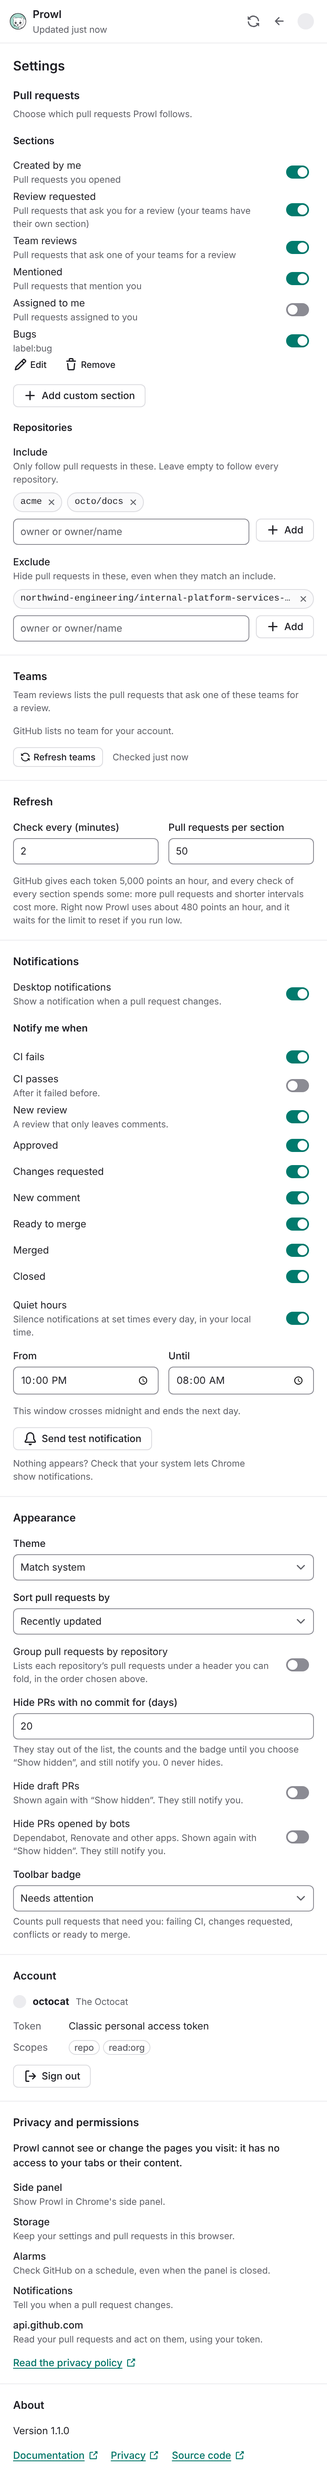
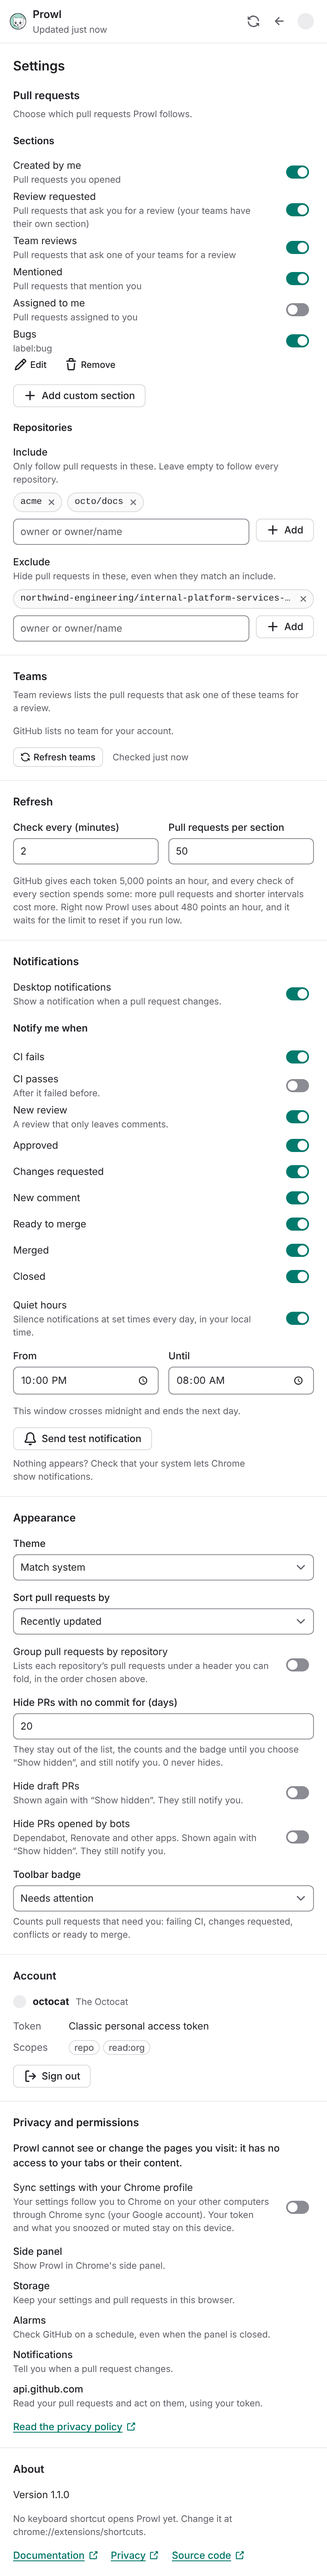
docs: US-042 README, site and store listing for the new features
README and the site's feature cards now cover the bottom bar, team
reviews, hidden stale/draft/bot PRs, grouping, auto-merge and update
branch, the Alt+Shift+P shortcut, notification buttons and opt-in settings
sync. docs/chrome-web-store.md gains the listing's summary and description.
settings.png is regenerated; the list, grouped and teams screenshots come
from the stories that changed them.

Claude-Session: https://claude.ai/code/session_01HNcLDA9beJqnS4TXQJfWCW

diff --git a/README.md b/README.md
@@ -45,7 +45,8 @@ CI status may be missing with them. Details: [sign-in guide](docs/auth.md).
 
 - **Scope**: PRs you authored by default; add review requested (from you), team reviews
   (requests to your teams, found with `read:org`), mentioned, assigned, custom GitHub
-  searches, and repository include/exclude filters. Each scope is a tab. PRs with no
+  searches, and repository include/exclude filters. Each scope sits in a bar at the bottom of
+  the panel, with its count. PRs with no
   commit for 20 days (you choose) step aside behind a "Show hidden" button and still notify;
   so can drafts and PRs opened by bots (Dependabot, Renovate), one switch each in Settings.
   A further switch groups each tab's PRs under their repository, in collapsible groups.
@@ -53,11 +54,16 @@ CI status may be missing with them. Details: [sign-in guide](docs/auth.md).
   unresolved threads, comments, last activity and age. Expand a card for failing checks,
   reviewers and what blocks the merge.
 - **Notifications**: CI failed, CI passed after a failure, new review, approved, changes
-  requested, new comment, ready to merge, merged or closed by someone else. Per-event toggles,
-  quiet hours, and a toolbar badge counting PRs that need you.
+  requested, new comment, ready to merge, merged or closed by someone else, with Open and
+  Snooze 1 h buttons. Per-event toggles, quiet hours, and a toolbar badge counting PRs that
+  need you.
 - **Actions**: approve, request changes and merge (with confirmation; only the merge methods the
-  repository allows), comment, re-run failed checks, ready for review / convert to draft,
-  snooze, mute, open in GitHub, copy branch name.
+  repository allows), turn auto-merge on or off, update a branch that is behind (merge or
+  rebase), comment, re-run failed checks, ready for review / convert to draft, snooze, mute,
+  open in GitHub, copy branch name.
+- **Everywhere you work**: Alt+Shift+P opens the panel (change it at
+  chrome://extensions/shortcuts). Turn on settings sync to find your settings in Chrome on your
+  other computers; the token and your local PR state never leave the device.
 - **Polite polling**: every 2 minutes by default (1 minute minimum), rate-limit aware, with
   backoff on errors. Light and dark themes, full keyboard support.
 

diff --git a/docs/chrome-web-store.md b/docs/chrome-web-store.md
@@ -18,6 +18,27 @@ The job is skipped until the repository variable `CWS_ITEM_ID` exists, so releas
 before the store is set up. It uses API v2: v1 stops on 15 October 2026. The API only uploads and
 submits packages; the listing text, images and privacy answers are edited in the dashboard.
 
+## Listing text
+
+**Summary** (132 characters at most): Follow your GitHub pull requests in the side panel: CI,
+reviews, merge state, notifications and actions. No backend.
+
+**Description**:
+
+> Prowl follows your GitHub pull requests from Chrome's side panel.
+>
+> - See CI, reviews, conflicts and merge readiness on every card, for what you opened, what asks
+>   for your review or your teams' review, where you are mentioned, or any GitHub search.
+> - Get notified when CI fails or passes, a review arrives, or a PR is ready, merged or closed;
+>   open or snooze it from the notification. Quiet hours and a toolbar badge.
+> - Approve, request changes, comment, merge, turn on auto-merge, update a branch that is
+>   behind, re-run failed checks, all without leaving your tab. Alt+Shift+P opens the panel.
+> - Hide stale, draft and bot PRs, and group them by repository.
+>
+> Private by design: no backend and no telemetry. Your token stays on your device, GitHub is the
+> only server Prowl talks to, and it cannot read or change the pages you visit. Settings can
+> sync through your Chrome profile if you turn it on; the token never does.
+
 ## One-time setup
 
 ### 1. Create the item by hand
